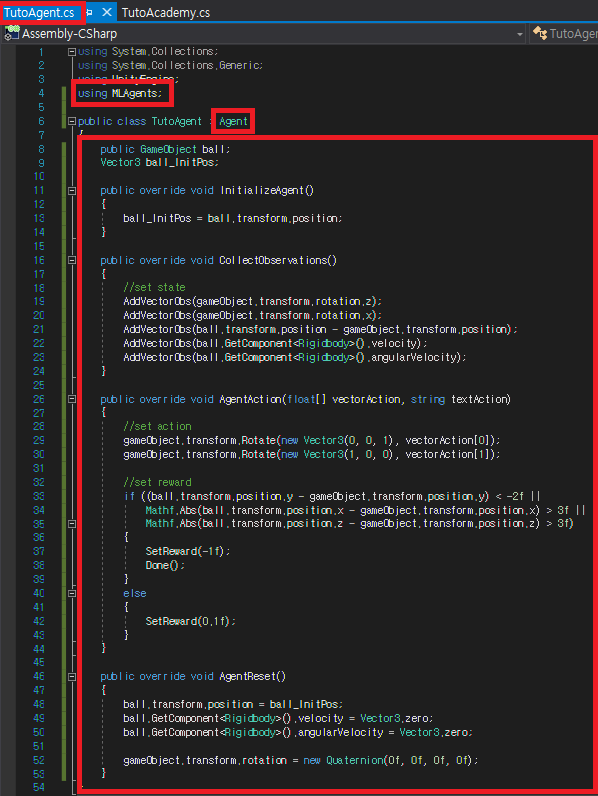
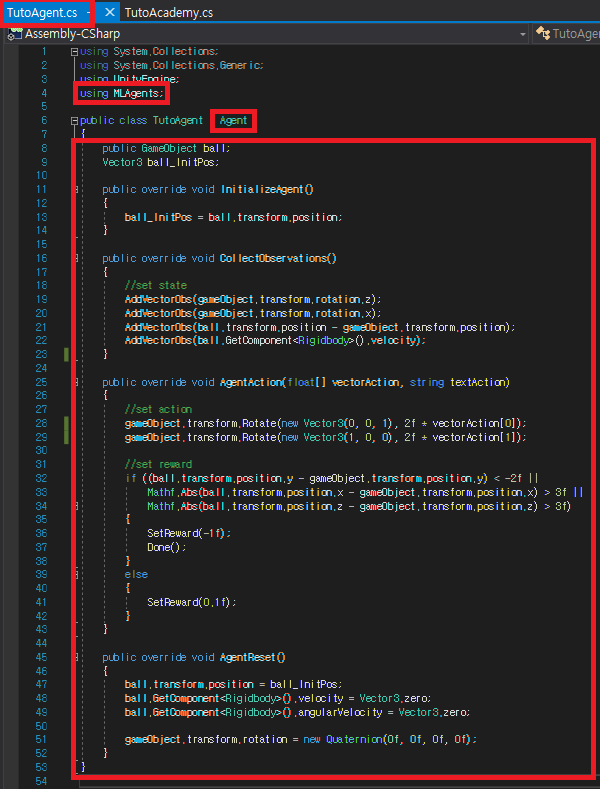
state & action modified.

Changed region(s): [[0.0, 0.0, 1.0, 1.0], [0.2408, 0.7605, 0.3913, 0.7909], [0.903, 0.0304, 1.0, 0.0608]]

diff --git a/unity_ml_agents_tutorial/6.make_academy_and_agents/TutoAgent.cs b/unity_ml_agents_tutorial/6.make_academy_and_agents/TutoAgent.cs
@@ -20,14 +20,13 @@ public class TutoAgent : Agent
 		AddVectorObs(gameObject.transform.rotation.x);
 		AddVectorObs(ball.transform.position - gameObject.transform.position);
 		AddVectorObs(ball.GetComponent<Rigidbody>().velocity);
-		AddVectorObs(ball.GetComponent<Rigidbody>().angularVelocity);
 	}
 
 	public override void AgentAction(float[] vectorAction, string textAction)
 	{
 		//set action
-		gameObject.transform.Rotate(new Vector3(0, 0, 1), vectorAction[0]);
-		gameObject.transform.Rotate(new Vector3(1, 0, 0), vectorAction[1]);
+		gameObject.transform.Rotate(new Vector3(0, 0, 1), 2f * vectorAction[0]);
+		gameObject.transform.Rotate(new Vector3(1, 0, 0), 2f * vectorAction[1]);
 
 		//set reward
 		if ((ball.transform.position.y - gameObject.transform.position.y) < -2f ||
